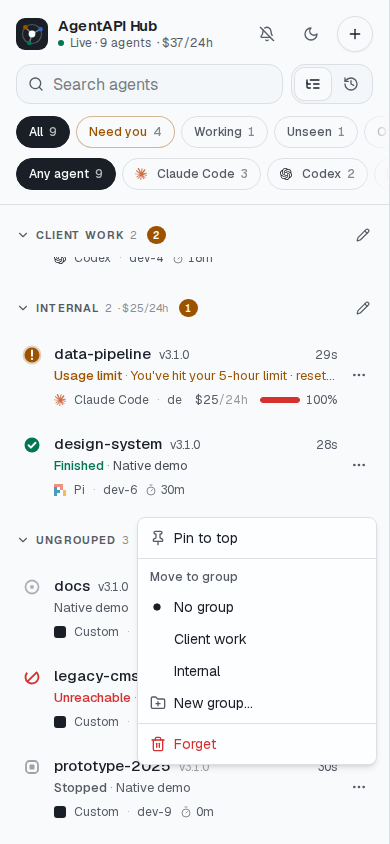
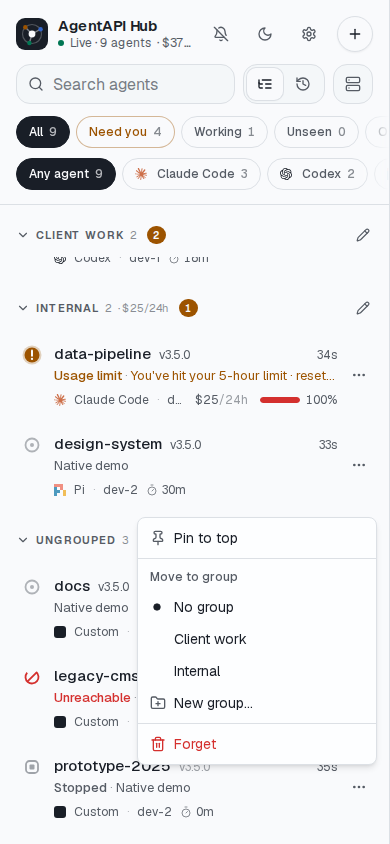
docs: screenshot the hub's settings and the favorites menu
The screenshot script keeps four favorites on the demo hub and captures
hub-settings-favorites.png (the Favorites section) and
composer-favorites.png (the star menu in an agent opened from the hub).
The hub's views that show its header now have the settings button.

diff --git a/docs/screenshots/README.md b/docs/screenshots/README.md
@@ -2,7 +2,8 @@
 
 The [chat UI guide](../chat-ui.md) and [README](../../README.md) use these screenshots and GIFs.
 Chromium captured them from AgentAPI 3.1.0, built from the source with `make build`, serving the
-production chat UI and API; `retry-card.png` came later, from a 3.3.0 build.
+production chat UI and API; `retry-card.png` came later, from a 3.3.0 build, and the views of the
+hub's page (with its settings button) and of the favorites from a 3.5.0 build.
 
 [scripts/capture-docs.mjs](../../scripts/capture-docs.mjs) starts its own servers on a small sample
 project, `my-app` (a page with a stylesheet, a script and release notes, two commits and
@@ -76,10 +77,12 @@ device scale factor of 1.
 | [hub-desktop.png](hub-desktop.png) | The hub's overview: how many need you, a tile per state, a card per request, what runs and what finished |
 | [hub-desktop-dark.png](hub-desktop-dark.png) | The same overview in the dark theme |
 | [hub-instance.png](hub-instance.png) | An agent open beside the list, its approval ready to answer, with its machine's agents in the bar |
+| [composer-favorites.png](composer-favorites.png) | An idle agent open from the hub, the composer's ☆ menu of favorites over a draft |
 | [hub-empty.png](hub-empty.png) | The guide an empty hub shows: the hub's address, the join command and a prompt for an agent on the machine, the secret masked |
 | [hub-sign-in.png](hub-sign-in.png) | Signing in to the hub, beside its picture of agents in their states |
 | [hub-list.png](hub-list.png) | The hub's list: two pinned agents, then two groups and Ungrouped, with every state's glyph: approval, question, login, usage limit, working, finished, idle, unreachable, stopped; and each agent's AgentAPI version, one older than the hub |
 | [hub-add.png](hub-add.png) | The Add dialog: joining a machine (the hub's address, updates from the hub, the command and a prompt for an agent, the secret masked), or adding an instance by its URL and token |
+| [hub-settings-favorites.png](hub-settings-favorites.png) | Hub settings: the favorites, each with its buttons to move, edit and delete it |
 | [hub-recent.png](hub-recent.png) | The hub's list by the agents' latest changes: the pinned agents, then one list without group headers, the most recent first, and each row's group where it has room |
 | [hub-machines.png](hub-machines.png) | The hub's list By machine in the groups: the pinned agents, then each group with a card per machine: the machine with its version and spend once, a tab per agent with its state's dot, and the picked agent below, one older than the hub |
 | [hub-machines-recent.png](hub-machines-recent.png) | The hub's list By machine in the recent order: the pinned agents, then a card per machine without group headers, the machine of the latest change first, each with the age of that change and the agent that changed last |
